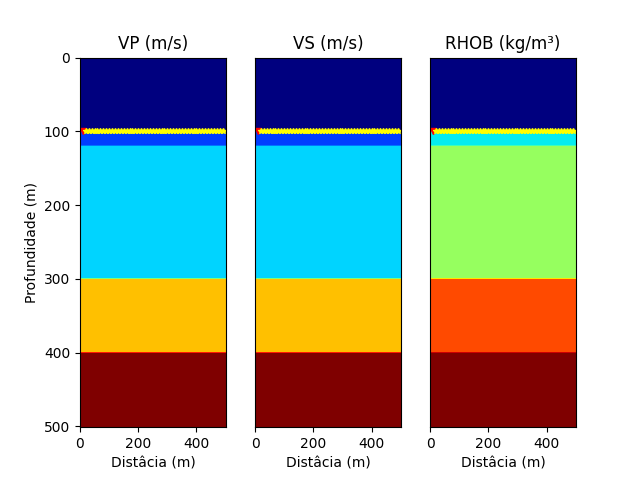
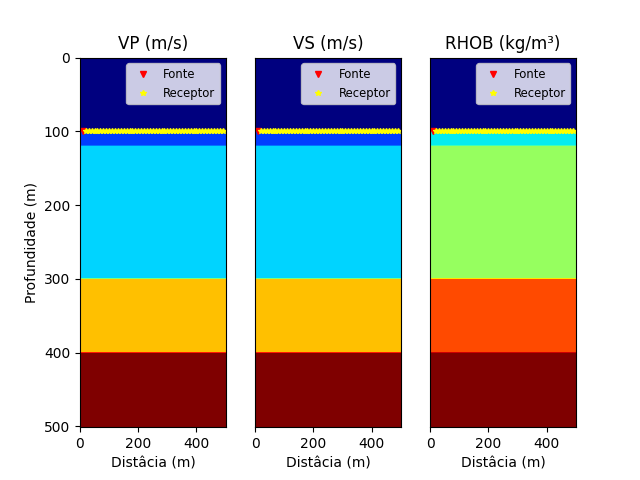
add_legenda

Changed region(s): [[0.7188, 0.125, 0.9062, 0.2188], [0.4688, 0.125, 0.625, 0.2188], [0.1875, 0.125, 0.3438, 0.2188]]

diff --git a/src/Model2D.py b/src/Model2D.py
@@ -69,6 +69,8 @@ plt.plot(src, z_src, 'v', color='red', label='Fonte', markersize= 4)
 plt.plot(rec, z_rec, '*', color='yellow', label='Receptor', markersize= 4)
 plt.xlabel('Distâcia (m)')
 plt.ylabel('Profundidade (m)')
+plt.legend(fontsize='small')
+
 
 plt.subplot(132)
 plt.title('VS (m/s)')
@@ -77,6 +79,7 @@ plt.plot(src, z_src, 'v', color='red', label='Fonte', markersize= 4)
 plt.plot(rec, z_rec, '*', color='yellow', label='Receptor', markersize= 4)
 plt.xlabel('Distâcia (m)')
 plt.yticks([])
+plt.legend(fontsize='small')
 #plt.ylabel('Profundidade (m)')
 
 plt.subplot(133)
@@ -86,6 +89,7 @@ plt.plot(src, z_src, 'v', color='red', label='Fonte', markersize= 4)
 plt.plot(rec, z_rec, '*', color='yellow', label='Receptor', markersize= 4)
 plt.xlabel('Distâcia (m)')
 plt.yticks([])
+plt.legend(fontsize='small')
 #plt.ylabel('Profundidade (m)')
 
 plt.savefig('2DModels.png')
